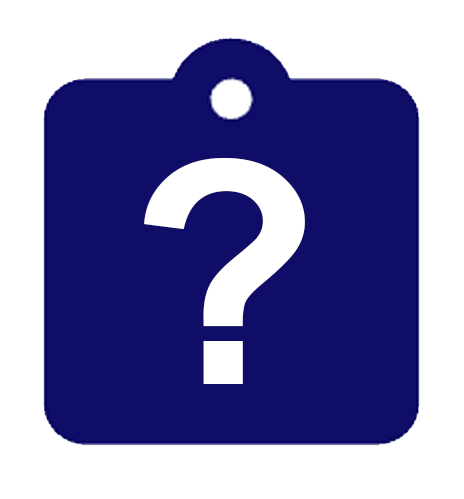
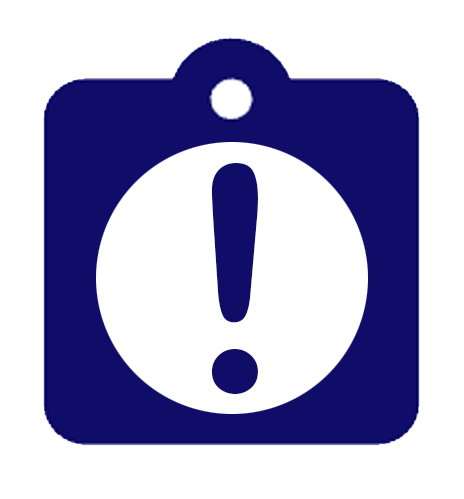
Refactor HomeController and enhance UI for repair metrics
- Removed redundant logic from HomeController related to repair metrics for unauthorized users.
- Added a new Blade view for displaying repair status metrics, improving code organization and maintainability.
- Introduced new images for various repair statuses to enhance visual representation in the UI.
- Updated navbar links to improve navigation and user experience for accessing repair-related pages.

Changed region(s): [[0.181, 0.2705, 0.8147, 0.8417]]

diff --git a/resources/views/inc/repair-shortcuts.blade.php b/resources/views/inc/repair-shortcuts.blade.php
@@ -1,0 +1,111 @@
+@php
+    $isSlaOnlyCategory = auth()->user()->id == 326;
+    $receivedStatuses = ['For repair', 'Repaired', 'Conversion'];
+
+    $returnsQuery = \App\Defective::query()
+        ->select('return_no')
+        ->where('status', 'For receiving');
+    $receivedQuery = \App\Defective::query()
+        ->whereIn('status', $receivedStatuses);
+    $slaQuery = \App\Defective::query()
+        ->whereIn('status', $receivedStatuses)
+        ->whereNotNull('remarks')
+        ->where('remarks', '!=', '');
+    $repairedQuery = \App\Defective::query()
+        ->where('status', 'Repaired');
+    $unrepairableQuery = \App\Defective::query()
+        ->whereIn('status', ['Unrepairable', 'Unrepairable approval']);
+
+    if ($isSlaOnlyCategory) {
+        $returnsQuery->where('category_id', 26);
+        $receivedQuery->where('category_id', 26);
+        $slaQuery->where('category_id', 26);
+        $repairedQuery->where('category_id', 26);
+        $unrepairableQuery->where('category_id', 26);
+    } else {
+        $returnsQuery->where('category_id', '!=', 26);
+        $receivedQuery->where('category_id', '!=', 26);
+        $slaQuery->where('category_id', '!=', 26);
+        $repairedQuery->where('category_id', '!=', 26);
+        $unrepairableQuery->where('category_id', '!=', 26);
+    }
+
+    $slaCount = $slaQuery->count();
+    $receivedCount = $receivedQuery->count();
+    $returnsCount = \App\Retno::query()
+        ->whereIn('status', ['For receiving', 'Incomplete'])
+        ->whereIn('return_no', $returnsQuery->pluck('return_no'))
+        ->count();
+    $repairedCount = $repairedQuery->count();
+    $unrepairableCount = $unrepairableQuery->count();
+@endphp
+
+<div class="container-fluid pt-3">
+    <div class="row justify-content-center" style="row-gap: 18px;">
+        <div class="col-lg-2 col-md-4 col-sm-6 col-6">
+            <a href="{{ route('home.received.remarks') }}" style="text-decoration: none;">
+                <center>
+                    <div class="text-center">
+                        <img style="height: 100px;" src="{{ asset('images/SLA.png') }}">
+                    </div>
+                    <div class="container" style="background-color: #0d1a80; color: white; margin-bottom: 5px; line-height: 38px; height: 38px; width: 120px; text-align: center; font-size: 20px; border-radius: 30px;">
+                        {{ number_format($slaCount) }}
+                    </div>
+                    <strong style="color: #0d1a80; font-size: 16px;">SLA</strong>
+                </center>
+            </a>
+        </div>
+        <div class="col-lg-2 col-md-4 col-sm-6 col-6">
+            <a href="{{ url('/') }}" style="text-decoration: none;">
+                <center>
+                    <div class="text-center">
+                        <img style="height: 100px;" src="{{ asset('images/FOR-REPAIR.png') }}">
+                    </div>
+                    <div class="container" style="background-color: #0d1a80; color: white; margin-bottom: 5px; line-height: 38px; height: 38px; width: 120px; text-align: center; font-size: 20px; border-radius: 30px;">
+                        {{ number_format($receivedCount) }}
+                    </div>
+                    <strong style="color: #0d1a80; font-size: 16px;">RECEIVED</strong>
+                </center>
+            </a>
+        </div>
+        <div class="col-lg-2 col-md-4 col-sm-6 col-6">
+            <a href="{{ url('/returnview') }}" style="text-decoration: none;">
+                <center>
+                    <div class="text-center">
+                        <img style="height: 100px;" src="{{ asset('images/RETURNS.png') }}">
+                    </div>
+                    <div class="container" style="background-color: #0d1a80; color: white; margin-bottom: 5px; line-height: 38px; height: 38px; width: 120px; text-align: center; font-size: 20px; border-radius: 30px;">
+                        {{ number_format($returnsCount) }}
+                    </div>
+                    <strong style="color: #0d1a80; font-size: 16px;">RETURNS</strong>
+                </center>
+            </a>
+        </div>
+        <div class="col-lg-2 col-md-4 col-sm-6 col-6">
+            <a href="{{ url('/repaired-ware') }}" style="text-decoration: none;">
+                <center>
+                    <div class="text-center">
+                        <img style="height: 100px;" src="{{ asset('images/REPAIRED.png') }}">
+                    </div>
+                    <div class="container" style="background-color: #0d1a80; color: white; margin-bottom: 5px; line-height: 38px; height: 38px; width: 120px; text-align: center; font-size: 20px; border-radius: 30px;">
+                        {{ number_format($repairedCount) }}
+                    </div>
+                    <strong style="color: #0d1a80; font-size: 16px;">REPAIRED</strong>
+                </center>
+            </a>
+        </div>
+        <div class="col-lg-2 col-md-4 col-sm-6 col-6">
+            <a href="{{ route('index.unrepair') }}" style="text-decoration: none;">
+                <center>
+                    <div class="text-center">
+                        <img style="height: 100px;" src="{{ asset('images/UNREPAIRABLE.png') }}">
+                    </div>
+                    <div class="container" style="background-color: #0d1a80; color: white; margin-bottom: 5px; line-height: 38px; height: 38px; width: 120px; text-align: center; font-size: 20px; border-radius: 30px;">
+                        {{ number_format($unrepairableCount) }}
+                    </div>
+                    <strong style="color: #0d1a80; font-size: 16px;">UNREPAIRABLE</strong>
+                </center>
+            </a>
+        </div>
+    </div>
+</div>

diff --git a/resources/views/pages/home.blade.php b/resources/views/pages/home.blade.php
@@ -1,79 +1,6 @@
 @extends('layouts.app')
 
 @section('content')
-    @if((auth()->user()->hasrole('Repair') || auth()->user()->id == 326) && Request::is('log'))
-        <div class="container-fluid pt-4">
-            <div class="row justify-content-center" style="row-gap: 18px;">
-                <div class="col-lg-2 col-md-4 col-sm-6 col-6">
-                    <a href="{{ route('home.received.remarks') }}" style="text-decoration: none;">
-                        <center>
-                            <div class="text-center">
-                                <img style="height: 100px;" src="{{ asset('images/SLA.png') }}">
-                            </div>
-                            <div class="container" style="background-color: #0d1a80; color: white; margin-bottom: 5px; line-height: 38px; height: 38px; width: 120px; text-align: center; font-size: 20px; border-radius: 30px;">
-                                {{ number_format($slaCount ?? 0) }}
-                            </div>
-                            <strong style="color: #0d1a80; font-size: 16px;">SLA</strong>
-                        </center>
-                    </a>
-                </div>
-                <div class="col-lg-2 col-md-4 col-sm-6 col-6">
-                    <a href="{{ url('/') }}" style="text-decoration: none;">
-                        <center>
-                            <div class="text-center">
-                                <img style="height: 100px;" src="{{ asset('images/FOR-REPAIR.png') }}">
-                            </div>
-                            <div class="container" style="background-color: #0d1a80; color: white; margin-bottom: 5px; line-height: 38px; height: 38px; width: 120px; text-align: center; font-size: 20px; border-radius: 30px;">
-                                {{ number_format($receivedCount ?? 0) }}
-                            </div>
-                            <strong style="color: #0d1a80; font-size: 16px;">RECEIVED</strong>
-                        </center>
-                    </a>
-                </div>
-                <div class="col-lg-2 col-md-4 col-sm-6 col-6">
-                    <a href="{{ url('/returnview') }}" style="text-decoration: none;">
-                        <center>
-                            <div class="text-center">
-                                <img style="height: 100px;" src="{{ asset('images/RETURNS.png') }}">
-                            </div>
-                            <div class="container" style="background-color: #0d1a80; color: white; margin-bottom: 5px; line-height: 38px; height: 38px; width: 120px; text-align: center; font-size: 20px; border-radius: 30px;">
-                                {{ number_format($returnsCount ?? 0) }}
-                            </div>
-                            <strong style="color: #0d1a80; font-size: 16px;">RETURNS</strong>
-                        </center>
-                    </a>
-                </div>
-                <div class="col-lg-2 col-md-4 col-sm-6 col-6">
-                    <a href="{{ url('/repaired-ware') }}" style="text-decoration: none;">
-                        <center>
-                            <div class="text-center">
-                                <img style="height: 100px;" src="{{ asset('images/REPAIRED.png') }}">
-                            </div>
-                            <div class="container" style="background-color: #0d1a80; color: white; margin-bottom: 5px; line-height: 38px; height: 38px; width: 120px; text-align: center; font-size: 20px; border-radius: 30px;">
-                                {{ number_format($repairedCount ?? 0) }}
-                            </div>
-                            <strong style="color: #0d1a80; font-size: 16px;">REPAIRED</strong>
-                        </center>
-                    </a>
-                </div>
-                <div class="col-lg-2 col-md-4 col-sm-6 col-6">
-                    <a href="{{ route('index.unrepair') }}" style="text-decoration: none;">
-                        <center>
-                            <div class="text-center">
-                                <img style="height: 100px;" src="{{ asset('images/UNREPAIRABLE.png') }}">
-                            </div>
-                            <div class="container" style="background-color: #0d1a80; color: white; margin-bottom: 5px; line-height: 38px; height: 38px; width: 120px; text-align: center; font-size: 20px; border-radius: 30px;">
-                                {{ number_format($unrepairableCount ?? 0) }}
-                            </div>
-                            <strong style="color: #0d1a80; font-size: 16px;">UNREPAIRABLE</strong>
-                        </center>
-                    </a>
-                </div>
-            </div>
-        </div>
-        <br>
-    @endif
-
     @if(!auth()->user()->hasanyrole('Repair', 'Warehouse Administrator', 'Viewer', 'Viewer PLSI', 'Viewer IDSI'))
         @if(!auth()->user()->hasanyrole('Main Warehouse Manager'))
             @if (auth()->user()->branch->branch != "Conversion")

diff --git a/app/Http/Controllers/HomeController.php b/app/Http/Controllers/HomeController.php
@@ -35,7 +35,6 @@ use App\Defective;
 use App\Customer;
 use App\CustomerBranch;
 use App\RepairedNo;
-use App\Retno;
 use App\Pullno;
 use DB;
 use App\UserLog;
@@ -393,57 +392,6 @@ class HomeController extends Controller
     public function log()
     {   
         $title = 'Activities';
-        if (auth()->user()->hasAnyRole('Repair') || auth()->user()->id == 326) {
-            $isSlaOnlyCategory = auth()->user()->id == 326;
-            $repairUsers = User::whereHas('roles', function ($q) {
-                $q->where('name', 'Repair');
-            })->pluck('id');
-
-            $receivedStatuses = ['For repair', 'Repaired', 'Conversion'];
-            $returnsQuery = Defective::query()->select('return_no')->where('status', 'For receiving');
-            $receivedQuery = Defective::query()->whereIn('status', $receivedStatuses);
-            $slaQuery = Defective::query()
-                ->whereIn('status', $receivedStatuses)
-                ->whereNotNull('remarks')
-                ->where('remarks', '!=', '');
-            $repairedQuery = Defective::query()->where('status', 'Repaired');
-            $unrepairableQuery = Defective::query()->whereIn('status', ['Unrepairable', 'Unrepairable approval']);
-
-            if ($isSlaOnlyCategory) {
-                $returnsQuery->where('category_id', 26);
-                $receivedQuery->where('category_id', 26);
-                $slaQuery->where('category_id', 26);
-                $repairedQuery->where('category_id', 26);
-                $unrepairableQuery->where('category_id', 26);
-            } else {
-                $returnsQuery->where('category_id', '!=', 26);
-                $receivedQuery->where('category_id', '!=', 26);
-                $slaQuery->where('category_id', '!=', 26);
-                $repairedQuery->where('category_id', '!=', 26);
-                $unrepairableQuery->where('category_id', '!=', 26);
-            }
-
-            $activityLogsCount = UserLog::whereIn('user_id', $repairUsers)->count();
-            $slaCount = $slaQuery->count();
-            $receivedCount = $receivedQuery->count();
-            $returnsCount = Retno::query()
-                ->whereIn('status', ['For receiving', 'Incomplete'])
-                ->whereIn('return_no', $returnsQuery->pluck('return_no'))
-                ->count();
-            $repairedCount = $repairedQuery->count();
-            $unrepairableCount = $unrepairableQuery->count();
-
-            return view('pages.home', compact(
-                'title',
-                'activityLogsCount',
-                'slaCount',
-                'receivedCount',
-                'returnsCount',
-                'repairedCount',
-                'unrepairableCount'
-            ));
-        }
-
         return view('pages.home', compact('title'));
     }
 

diff --git a/resources/views/inc/navbar.blade.php b/resources/views/inc/navbar.blade.php
@@ -17,10 +17,10 @@
                     <a class="nav-link {{ Request::is('log') ? 'active' : '' }}" href="{{ url('/log') }}">Activity Logs</a>
                 </li>
                 <li class="nav-item">
-                    <a class="nav-link {{ Request::is('/') ? 'active' : '' }}" href="{{ url('/') }}">Received</a>
+                    <a class="nav-link {{ Request::is('reprec-remarks') ? 'active' : '' }}" href="{{ route('home.received.remarks') }}">SLA</a>
                 </li>
                 <li class="nav-item">
-                    <a class="nav-link {{ Request::is('reprec-remarks') ? 'active' : '' }}" href="{{ route('home.received.remarks') }}">With Remarks</a>
+                    <a class="nav-link {{ Request::is('/') ? 'active' : '' }}" href="{{ url('/') }}">Received</a>
                 </li>
                 <li class="nav-item" style="margin-left:0px;margin-right:0px;">
                     <a class="nav-link {{ Request::is('returnview') ? 'active' : '' }}" href="{{ url('/returnview') }}">Returns</a>

diff --git a/resources/views/layouts/app.blade.php b/resources/views/layouts/app.blade.php
@@ -149,6 +149,11 @@
     <div id="loading"></div>
         @include('inc.header')
         @include('inc.navbar')
+        @auth
+            @if(auth()->user()->hasrole('Repair') || auth()->user()->id == 326)
+                @include('inc.repair-shortcuts')
+            @endif
+        @endauth
         @if(!Auth::guest())
             <input type="text" hidden id="level" value="{{ auth()->user()->roles->first()->name }}">
         @endif
